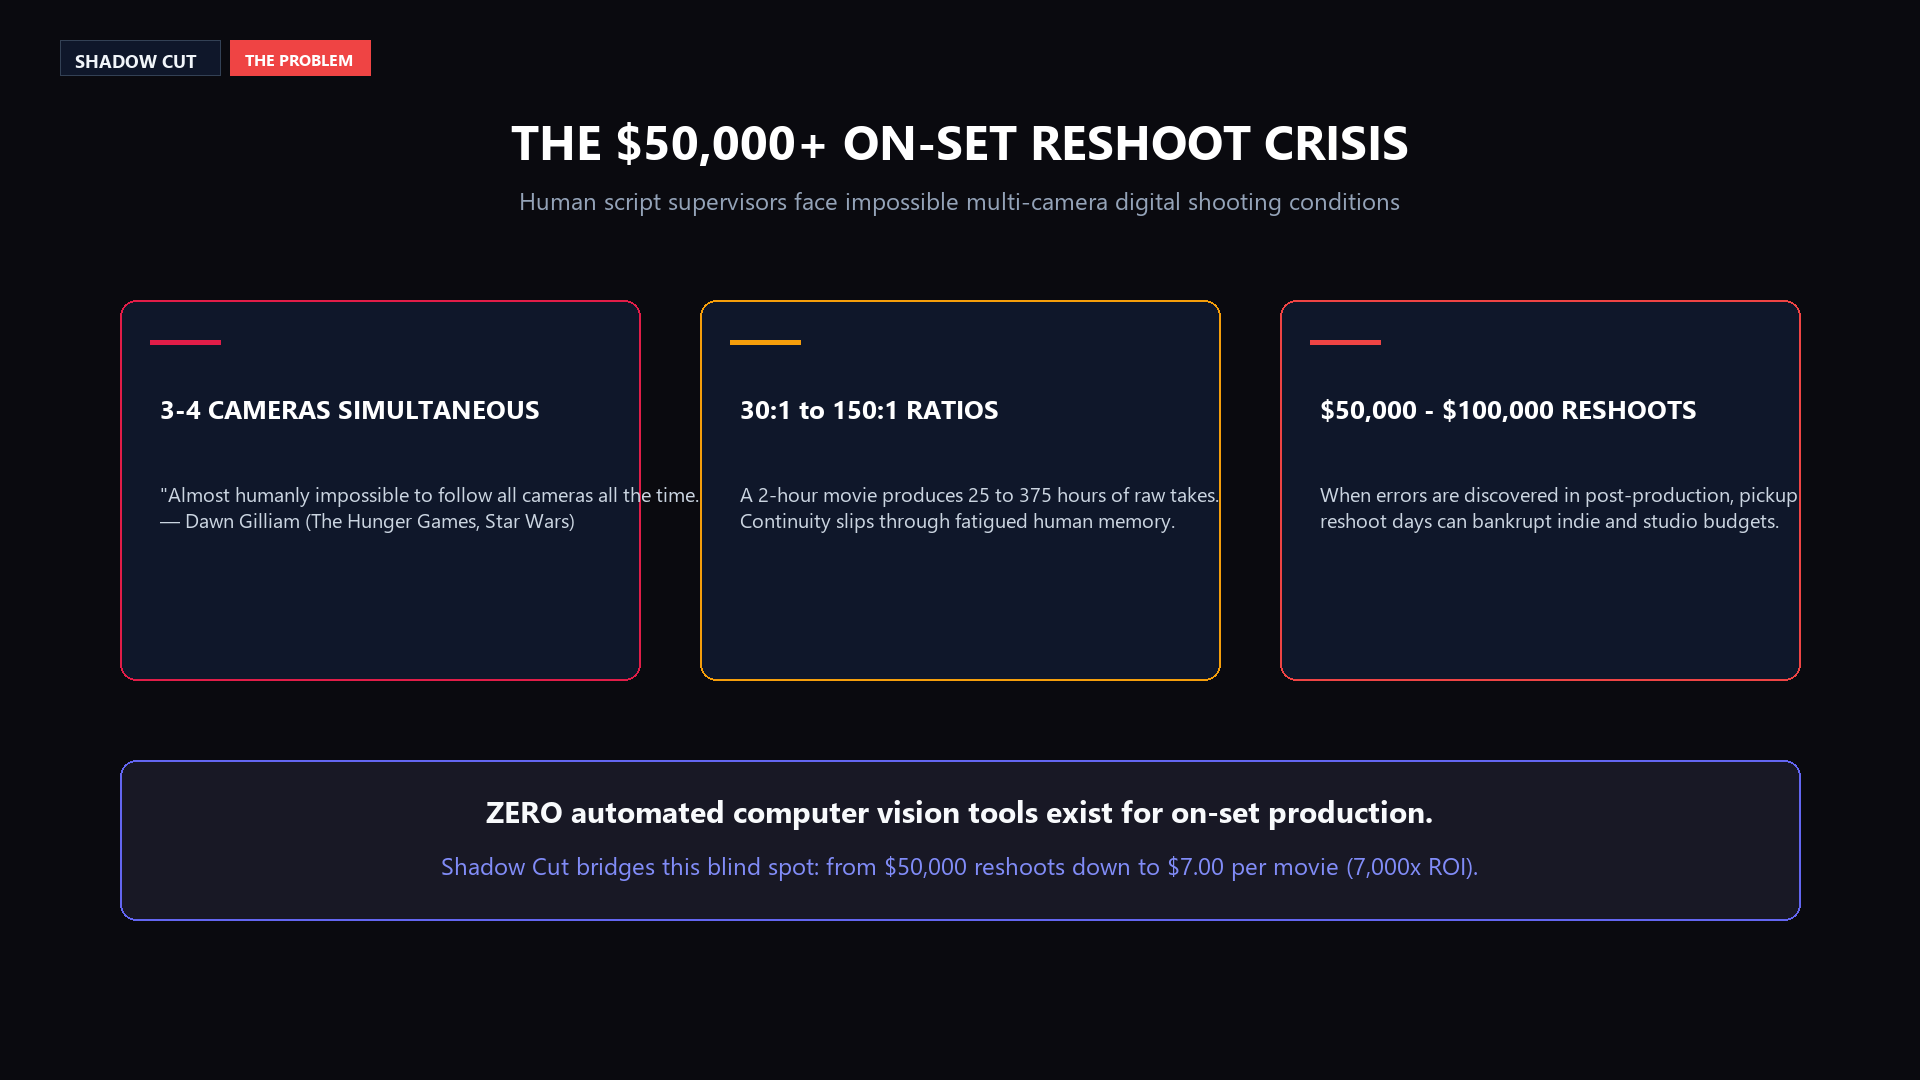
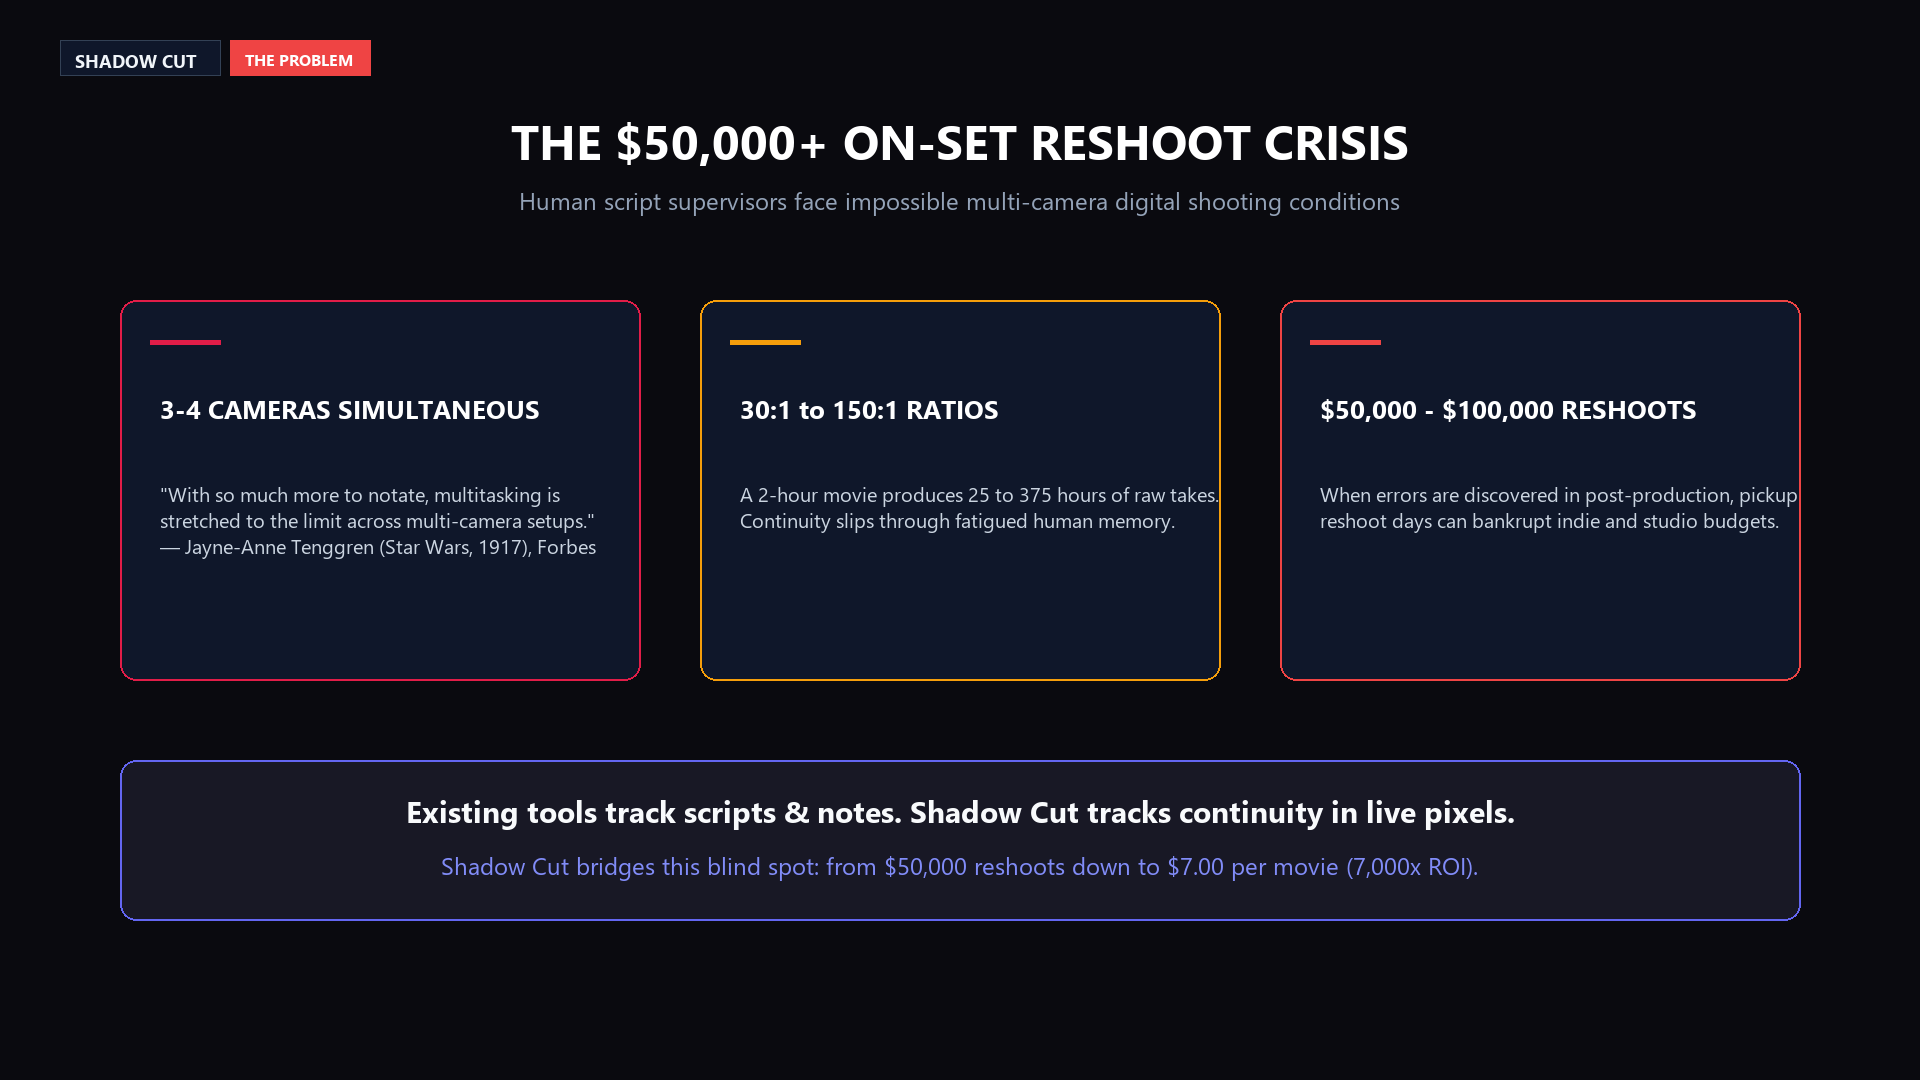
feat(release): embed official 3-minute master demo video, industry validation, and finalize v1.0.0

Changed region(s): [[0.2188, 0.7333, 0.7812, 0.7639], [0.0938, 0.4583, 0.3125, 0.5194]]

diff --git a/scripts/build_demo_graphics.py b/scripts/build_demo_graphics.py
@@ -70,7 +70,7 @@ def create_problem_card():
     draw.text((960, 200), "Human script supervisors face impossible multi-camera digital shooting conditions", font=get_font(FONT_REGULAR, 24), fill=(148, 163, 184), anchor="mm")
 
     cards = [
-        ("3-4 CAMERAS SIMULTANEOUS", '"Almost humanly impossible to follow all cameras all the time."\n— Dawn Gilliam (The Hunger Games, Star Wars)', (225, 29, 72)),
+        ("3-4 CAMERAS SIMULTANEOUS", '"With so much more to notate, multitasking is\nstretched to the limit across multi-camera setups."\n— Jayne-Anne Tenggren (Star Wars, 1917), Forbes', (225, 29, 72)),
         ("30:1 to 150:1 RATIOS", "A 2-hour movie produces 25 to 375 hours of raw takes.\nContinuity slips through fatigued human memory.", (245, 158, 11)),
         ("$50,000 - $100,000 RESHOOTS", "When errors are discovered in post-production, pickup\nreshoot days can bankrupt indie and studio budgets.", (239, 68, 68)),
     ]
@@ -84,7 +84,7 @@ def create_problem_card():
 
     # Bottom stat banner
     draw.rounded_rectangle([(120, 760), (1800, 920)], radius=16, fill=(24, 24, 37), outline=(99, 102, 241), width=2)
-    draw.text((960, 810), "ZERO automated computer vision tools exist for on-set production.", font=get_font(FONT_BOLD, 30), fill=(248, 250, 252), anchor="mm")
+    draw.text((960, 810), "Existing tools track scripts & notes. Shadow Cut tracks continuity in live pixels.", font=get_font(FONT_BOLD, 30), fill=(248, 250, 252), anchor="mm")
     draw.text((960, 865), "Shadow Cut bridges this blind spot: from $50,000 reshoots down to $7.00 per movie (7,000x ROI).", font=get_font(FONT_REGULAR, 24), fill=(129, 140, 248), anchor="mm")
 
     img.save(OUTPUT_DIR / "problem_card.png")
@@ -213,7 +213,7 @@ def create_audit_title():
     draw.rounded_rectangle([(160, 550), (1760, 920)], radius=16, fill=(24, 24, 37), outline=(51, 65, 85), width=2)
     draw.text((220, 600), "REAL HISTORICAL CONTINUITY BREAKS DISCOVERED:", font=get_font(FONT_BOLD, 26), fill=(255, 255, 255))
     findings = [
-        ("37:08", "Set Construction: Visible carpenter measurements & 'UPPER RIGHT CORNER' on barricade lumber", "RETAKE REQUIRED (99%)", (239, 68, 68)),
+        ("37:08", "Set Construction: Visible carpenter measurements & 'UPPER RIGHT CORNER' on barricade lumber", "RETAKE REQUIRED (100%)", (239, 68, 68)),
         ("07:58", "Prop Displacement: Charcoal lighter fluid canister jumps from hearth to floor across cuts", "DIRECTOR REVIEW (95%)", (245, 158, 11)),
         ("13:25", "Actor Staging Jump: Winchester repeating rifle shifts from vertical upright to horizontal across lap", "LOG ONLY (90%)", (148, 163, 184)),
         ("00:45", "Script Deviation: Duane Jones rips table apart bare-handed vs scripted iron tire iron & hammer", "ACCEPT RISK (91%)", (16, 185, 129)),

diff --git a/README.md b/README.md
@@ -1,5 +1,8 @@
 # Shadow Cut 🎬
 
+> *"With so much more information to notate, multitasking is stretched to the limit... Multi-camera challenges the balance between data entry and all the other tasks a script supervisor needs to perform."*  
+> — **Jayne-Anne Tenggren**, Hollywood Script Supervisor (*Star Wars*, *James Bond*, *1917*) in ***Forbes***
+> 
 > **The director still directs. The Shadow just remembers.**
 
 [![Hackathon](https://img.shields.io/badge/Agentic%20Cinema-IBM%20Track-054ADA?style=for-the-badge&logo=ibm)](https://agentic-cinema.devpost.com/)
@@ -30,7 +33,7 @@ The complete Shadow Cut backend is deployed live on **Google Cloud Run** in `us-
 ```bash
 # 1. Health Probe
 curl -s https://shadow-cut-api-713353926846.us-central1.run.app/health
-# {"status":"ok","version":"0.1.0"}
+# {"status":"ok","version":"1.0.0","service":"shadow-cut-engine"}
 
 # 2. Retrieve Live Forensic Continuity Alerts (Night of the Living Dead)
 curl -s https://shadow-cut-api-713353926846.us-central1.run.app/api/alerts/latest | jq .
@@ -43,14 +46,15 @@ curl -s -X POST https://shadow-cut-api-713353926846.us-central1.run.app/api/chat
 
 ---
 
-## 🎬 Demo Video & Devpost Submission
+## 🎬 Official Demo Video
 
-> **Official 3-Minute Master Demo Video Ready**:
-> * **Master File (1080p, 60fps):** [`demo_production/shadow_cut_official_demo.mp4`](demo_production/shadow_cut_official_demo.mp4) (Exact Runtime: **`2:53`** — fully within the 3:00 limit)
-> * **[▶ Watch the 3-Minute Demo Video on YouTube](https://youtube.com/watch?v=YOUR_VIDEO_ID)** *(Replace `YOUR_VIDEO_ID` with YouTube unlisted link upon upload, or review the master MP4 directly)*
-> * **[Devpost Submission Narrative](Google%20Hackathon/devpost_submission.md)**
-> * **[IBM Bob Architectural Blueprint](BOB_INTEGRATION.md)**
-> * **[Demo Video Script & Forensic Dossier](Google%20Hackathon/DEMO_VIDEO_EVIDENCE_DOSSIER.md)**
+[![Watch the Shadow Cut Demo](https://img.youtube.com/vi/VtS-Y1A0ICg/maxresdefault.jpg)](https://youtu.be/VtS-Y1A0ICg)
+
+> **[▶ Watch the Official 3-Minute Demonstration on YouTube](https://youtu.be/VtS-Y1A0ICg)** (Runtime: **`2:53`** — 1080p 60fps)  
+> *Experience how Shadow Cut detects on-set continuity breaks, unscripted prop shifts, and set dressing anomalies in real time without disrupting creative flow.*  
+> 
+> * **[IBM Bob Architectural Blueprint](BOB_INTEGRATION.md)** — Deep dive into the 6 MCP tools, data contracts, and watsonx Orchestrate catalog
+> * **[API Interface Contracts](docs/api_contracts.md)** — Core service and inference bridge specifications
 
 ---
 
@@ -78,7 +82,7 @@ Shadow Cut uncovered **four authentic historical continuity breaks and script de
 
 | Timestamp | Category | Reality vs. Script | Confidence | Plot Weight | Director Action |
 |:---|:---|:---|:---:|:---:|:---:|
-| **37:08** (02:30 clip) | **Set Construction** | **Carpenter Handwriting:** Raw pine barricade plank has visible pencil carpentry measurements & *"UPPER RIGHT CORNER"* facing camera. | **99.0%** | **CRITICAL** | `RETAKE REQUIRED` |
+| **37:08** (02:30 clip) | **Set Construction** | **Carpenter Handwriting:** Raw pine barricade plank has visible pencil carpentry measurements & *"UPPER RIGHT CORNER"* facing camera. | **100.0%** | **CRITICAL** | `RETAKE REQUIRED` |
 | **07:58 → 08:15** | **Prop Placement** | **Canister Jump:** Charcoal lighter fluid can on fireplace hearth in Shot A shifts to the floor by the chair in reverse Shot B before anyone touches it. | **95.0%** | **IMPORTANT** | `DIRECTOR REVIEW REQUIRED` |
 | **13:25 → 13:35** | **Actor Staging** | **Rifle Angle:** Winchester repeating rifle propped vertically against doorframe abruptly shifts to horizontal across Ben's lap between cuts. | **90.0%** | **INCIDENTAL** | `LOG ONLY` |
 | **00:45** | **Script Deviation** | **Table Disassembly:** Screenplay specifies Ben uses an iron tire iron & hammer; actor Duane Jones improvises ripping it apart bare-handed. | **91.0%** | **PERFORMANCE** | `ACCEPT RISK` |
@@ -332,9 +336,12 @@ shadow-cut/
 │   ├── plot_graph.json                 # Pre-computed Plot Knowledge Graph
 │   └── evidence_frames/                # Audited historical film frames
 │
-└── Google Hackathon/                   # Hackathon Submission Dossiers
-    ├── DEMO_VIDEO_EVIDENCE_DOSSIER.md  # 3-minute video script & evidence breakdown
-    └── devpost_submission.md           # Locked Devpost submission text
+└── docs/                               # Technical Specifications & Architecture
+    ├── confidence_escalation_logic.md  # Decision matrix & escalation math
+    ├── api_contracts.md                # MCP & Bridge API contracts
+    ├── confluent_schema.md             # Streaming event schemas
+    ├── edge_cases.md                   # 12 continuity edge cases
+    └── images/                         # Production UI captures & architecture
 ```
 
 ---
